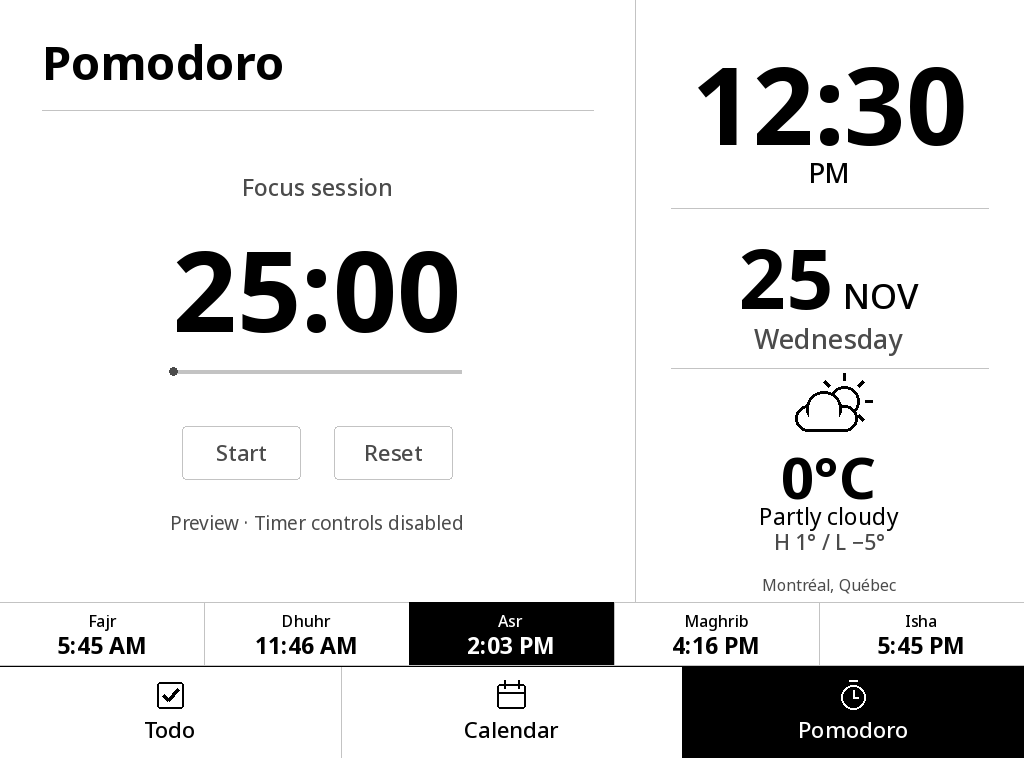
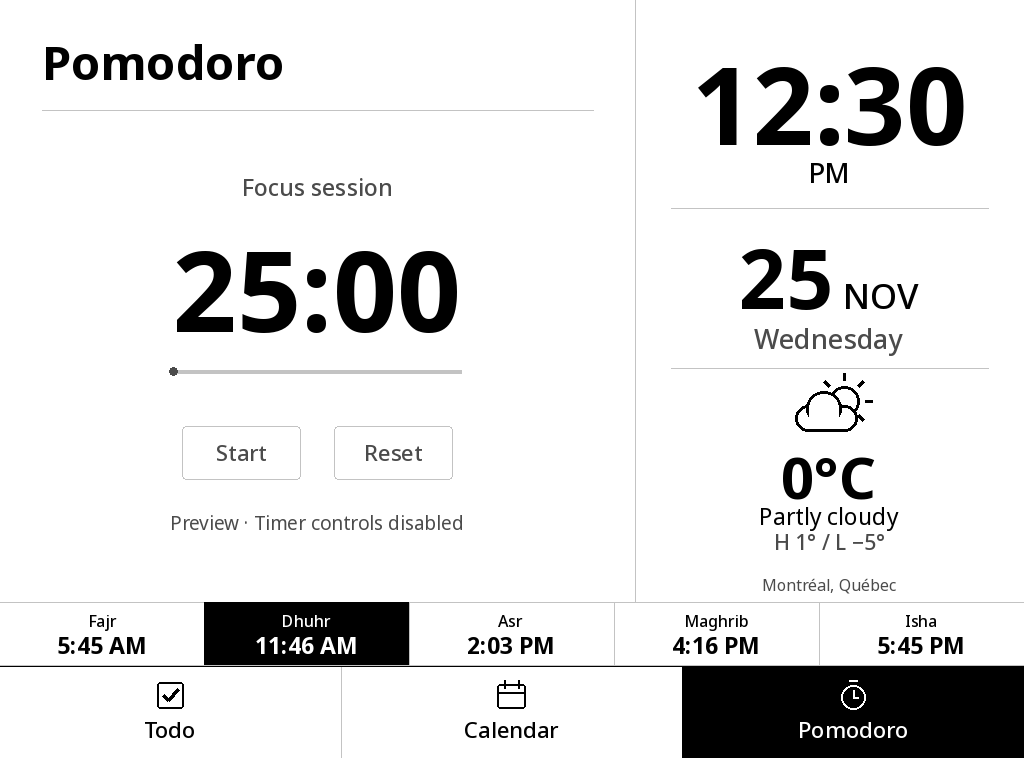
Highlight the current prayer in the Salat strip

Changed region(s): [[0.1875, 0.7889, 0.625, 0.8799]]

diff --git a/backend/tests/test_prayer_times.py b/backend/tests/test_prayer_times.py
@@ -69,7 +69,7 @@ def test_aladhan_month_timezone_and_calculation_parameters(monkeypatch):
     assert prayers.time_label(datetime.fromisoformat(result["2026-03-08"][0])) == "6:08 AM"
 
 
-def test_midnight_next_prayer_and_month_boundary(tmp_path, monkeypatch):
+def test_current_prayer_through_midnight_and_month_boundary(tmp_path, monkeypatch):
     db = Database(tmp_path / "prayers.sqlite3")
     db.migrate()
     config = prayers.PrayerPreferences(enabled=True, school=0)
@@ -79,18 +79,22 @@ def test_midnight_next_prayer_and_month_boundary(tmp_path, monkeypatch):
     with db.sessions() as session:
         before = prayers.prayer_day(session, config, midnight_eve)
         assert before.today[0] == "6:30 AM"
-        assert before.next_name == "Fajr" and before.tomorrow and before.next_time == "6:01 AM"
+        assert before.current_name == "Isha"
         midnight = datetime(2026, 12, 1, tzinfo=TORONTO)
         after = prayers.prayer_day(session, config, midnight)
-        assert after.next_name == "Fajr" and not after.tomorrow and after.today[0] == "6:01 AM"
-        exact = prayers.prayer_day(session, config, midnight.replace(hour=6, minute=1))
-        assert exact.next_name == "Fajr"
-        assert prayers.prayer_day(session, config, midnight.replace(hour=6, minute=2)).next_name == "Dhuhr"
+        assert after.current_name == "Isha" and after.today[0] == "6:01 AM"
+        previous = "Isha"
+        for name, hour in zip(prayers.PRAYERS, (6, 12, 15, 17, 19), strict=True):
+            just_before = midnight.replace(hour=hour, minute=0, second=59)
+            onset = midnight.replace(hour=hour, minute=1)
+            assert prayers.prayer_day(session, config, just_before).current_name == previous
+            assert prayers.prayer_day(session, config, onset).current_name == name
+            previous = name
         session.delete(session.get(PrayerMonth, (config.cache_key(), "2026-12")))
         session.commit()
-        missing = prayers.prayer_day(session, config, midnight_eve)
-        assert missing.tomorrow and missing.next_time is None
-        assert prayers.prayer_day(session, config, midnight).today == ("--:--",) * 5
+        assert prayers.prayer_day(session, config, midnight_eve).current_name == "Isha"
+        missing = prayers.prayer_day(session, config, midnight)
+        assert missing.today == ("--:--",) * 5 and missing.current_name is None
     db.close()
 
 
@@ -104,7 +108,7 @@ def test_fall_dst_offline_restart_and_setting_changes(tmp_path, monkeypatch):
         return schedules(month, fajr_hour=6 + config.school)
     monkeypatch.setattr(prayers, "fetch_month", fetch)
     initial = prayers.PrayerPreferences(enabled=True, school=0)
-    now = datetime(2026, 11, 1, 10, 30, tzinfo=UTC)
+    now = datetime(2026, 11, 1, 11, 30, tzinfo=UTC)
     cache = prayers.PrayerCache()
     assert cache.refresh(db, initial, now)
     assert cache.refresh(db, initial, now)
@@ -125,7 +129,7 @@ def test_fall_dst_offline_restart_and_setting_changes(tmp_path, monkeypatch):
     with reopened.sessions() as session:
         assert prayers.prayer_preferences(session) == initial
         result = prayers.prayer_day(session, initial, now, include_update=True)
-        assert result.today[0] == "6:01 AM" and result.next_name == "Fajr" and result.updated_at
+        assert result.today[0] == "6:01 AM" and result.current_name == "Fajr" and result.updated_at
     alternates = initial.model_copy(update={"school": 1})
     assert not cache.refresh(reopened, alternates, now)
     assert not cache.refresh(reopened, alternates, now)
@@ -223,8 +227,5 @@ def test_same_noninteractive_strip_and_highlight_on_all_pages():
     strips = [strip(page, salat) for page in ("todo", "calendar", "pomodoro")]
     assert strips[0].tobytes() == strips[1].tobytes() == strips[2].tobytes()
     assert [strips[0].getpixel((index * WIDTH // 5 + 10, 12)) for index in range(5)] == [255, 255, 0, 255, 255]
-    tomorrow = strip("todo", prayers.PrayerDay(salat.today, "Fajr", True, "6:05 AM"))
-    assert tomorrow.getpixel((10, 12)) == 0
-    assert tomorrow.tobytes() != strip("todo", prayers.PrayerDay(salat.today, "Fajr")).tobytes()
     offline = strip("todo", prayers.PrayerDay())
     assert all(offline.getpixel((index * WIDTH // 5 + 10, 12)) == 255 for index in range(5))

diff --git a/backend/app/services/prayer_times.py b/backend/app/services/prayer_times.py
@@ -69,9 +69,7 @@ class PrayerPreferences(InputModel):
 @dataclass(frozen=True)
 class PrayerDay:
     today: tuple[str, ...] = ("--:--",) * len(PRAYERS)
-    next_name: str | None = None
-    tomorrow: bool = False
-    next_time: str | None = None
+    current_name: str | None = None
     updated_at: str | None = None
 
 
@@ -143,20 +141,16 @@ def prayer_day(db, config: PrayerPreferences, now: datetime, *, include_update=F
     if include_update:
         updated_at = db.scalar(select(func.max(PrayerMonth.updated_at)).where(PrayerMonth.calculation == key))
 
-    def day_times(day):
-        row = db.get(PrayerMonth, (key, month_key(day)))
-        return [datetime.fromisoformat(value) for value in row.days.get(day.isoformat(), [])] if row else []
-
-    moments = day_times(today)
-    if not moments:
+    row = db.get(PrayerMonth, (key, month_key(today)))
+    values = row.days.get(today.isoformat(), []) if row else []
+    if not values:
         return PrayerDay(updated_at=updated_at)
-    formatted = tuple(map(time_label, moments))
-    upcoming = [(moment, name) for moment, name in zip(moments, PRAYERS, strict=True) if moment >= current]
-    if upcoming:
-        return PrayerDay(formatted, min(upcoming)[1], updated_at=updated_at)
-    tomorrow = day_times(today + timedelta(days=1))
-    next_time = time_label(tomorrow[0]) if tomorrow else None
-    return PrayerDay(formatted, "Fajr", True, next_time, updated_at)
+
+    moments = tuple(map(datetime.fromisoformat, values))
+    started = ((moment, name) for moment, name in zip(moments, PRAYERS, strict=True) if moment <= current)
+    # Before Fajr, the active slot is still the previous day's Isha.
+    _, current_name = max(started, key=lambda prayer: prayer[0], default=(None, "Isha"))
+    return PrayerDay(tuple(map(time_label, moments)), current_name, updated_at=updated_at)
 
 
 class PrayerCache:

diff --git a/backend/app/rendering/landscape.py b/backend/app/rendering/landscape.py
@@ -193,15 +193,12 @@ def draw_prayer_strip(draw, result: PrayerDay):
     for index, (name, timing) in enumerate(zip(PRAYERS, result.today, strict=True)):
         left, right = index * WIDTH // len(PRAYERS), (index + 1) * WIDTH // len(PRAYERS)
         center = (left + right) // 2
-        selected = name == result.next_name
+        selected = name == result.current_name
         color = 255 if selected else INK
         if selected:
             draw.rectangle((left, PRAYER_Y, right - 1, NAV_Y - 1), fill=INK)
         elif index:
             draw.line((left, PRAYER_Y, left, NAV_Y - 1), fill=RULE)
-        if selected and result.tomorrow:
-            name = f"{name} · Tomorrow"
-            timing = result.next_time or "--:--"
         label(draw, (center, PRAYER_Y + 25), name, 16, "Medium", color, "ms")
         label(draw, (center, PRAYER_Y + 52), timing, 23, "Bold", color, "ms")
     draw.line((0, NAV_Y - 1, WIDTH - 1, NAV_Y - 1), fill=RULE)

diff --git a/scripts/preview-kindle-landscape.py b/scripts/preview-kindle-landscape.py
@@ -38,7 +38,7 @@ def main():
     ]
     prayers = None
     if options.prayer_times:
-        prayers = PrayerDay(("5:45 AM", "11:46 AM", "2:03 PM", "4:16 PM", "5:45 PM"), "Asr")
+        prayers = PrayerDay(("5:45 AM", "11:46 AM", "2:03 PM", "4:16 PM", "5:45 PM"), "Dhuhr")
         examples[0] = ("todo", "todo", tasks[:task_page_size(True)], 2, 3)
     else:
         examples.append(("todo-mixed", "todo", mixed, 2, 3))

diff --git a/IMPLEMENTATION_PLAN.md b/IMPLEMENTATION_PLAN.md
@@ -7,7 +7,7 @@
 | 2.5A. Native KUAL preview | Package a credential-free one-shot NAS/PNG test and manual eips preview. Plan framework and power-button recovery for later approval. | Physically verified on the Paperwhite 2. |
 | 2.5B. Persistent native Kindle display | Detached full-screen refresh, power-key rehearsal, timed first trial, and supervised restoration | Initial physical display passed. Recovery fixes packaged for a controlled 120-second retest. |
 | 3A. Interactive landscape Kindle dashboard | KOReader/TRMNL landscape display, touch navigation, Todo completion synced with web admin, Calendar and Pomodoro previews, permanent NAS service and SQLite backups | Complete. Physically accepted on the Paperwhite 2 and released in v0.3.0. |
-| Salat times strip | Five daily prayer times on the landscape pages, next-prayer highlighting, web administration preferences, and AlAdhan monthly schedules cached in SQLite | Complete. Physically accepted on Kindle and released in v0.3.1. |
+| Salat times strip | Five daily prayer times on the landscape pages, prayer highlighting, web administration preferences, and AlAdhan monthly schedules cached in SQLite | Complete. Physically accepted on Kindle and released in v0.3.1. |
 | 3B. Calendar | Monthly navigation, current-day highlighting, deadline indicators and selected-day agenda | Planned |
 | 4. Persistent Pomodoro timer | Server-side state, focus/break defaults, Start/Pause/Resume/Reset/Skip, completed sessions, progress, one-second admin updates, restart recovery and authorized Kindle timer controls | Planned |
 | 5. Idle photo frame and photo library | Albums, uploads, e-ink processing, sequential/shuffled playback, configurable idle and rotation intervals and manual return. Suppress idle mode while timer is running or paused. | Planned |

diff --git a/README.md b/README.md
@@ -6,7 +6,7 @@ A self-hosted productivity dashboard for Dashboard NAS. Administrators manage ta
 
 Phase 3A is complete and physically verified on the Kindle Paperwhite 2. The KOReader plugin provides a 1024 × 758 interactive Todo dashboard with Calendar and Pomodoro previews. Use Todo to complete or reopen shared tasks, with updates synchronized to the web administration interface. The existing portrait TRMNL client continues to work.
 
-Version 0.3.1 adds a Salat times strip above the navigation buttons on Todo, Calendar, and Pomodoro. It shows the five daily prayers in AM/PM format and highlights the next prayer. Schedules are fetched from AlAdhan and cached in SQLite for the current and following months, so cached times stay available during an AlAdhan outage. The strip was verified on a physical Kindle.
+Version 0.3.1 adds a Salat times strip above the navigation buttons on Todo, Calendar, and Pomodoro. It shows the five daily prayers in AM/PM format. The highlight moves when each prayer starts. Isha stays highlighted until Fajr. Schedules are fetched from AlAdhan and cached in SQLite for the current and following months, so cached times stay available during an AlAdhan outage. The strip was verified on a physical Kindle.
 
 - [Salat times release](https://github.com/RahatulAmin/kindle-dashboard/releases/tag/v0.3.1)
 - [Phase 3A release and verified plugin ZIP](https://github.com/RahatulAmin/kindle-dashboard/releases/tag/v0.3.0)
